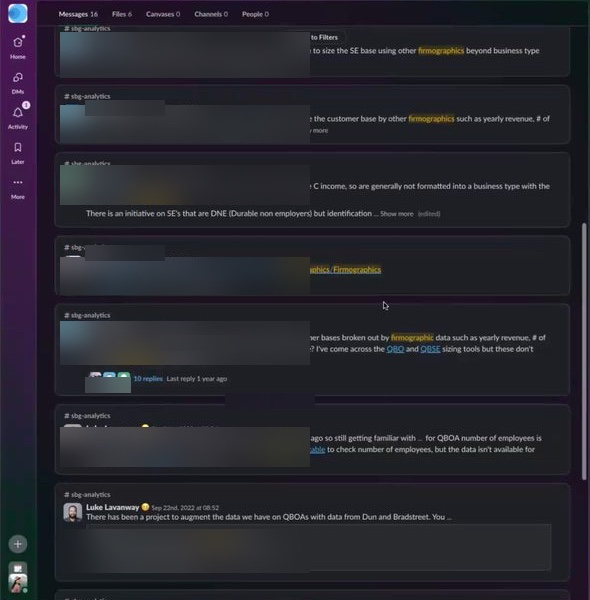
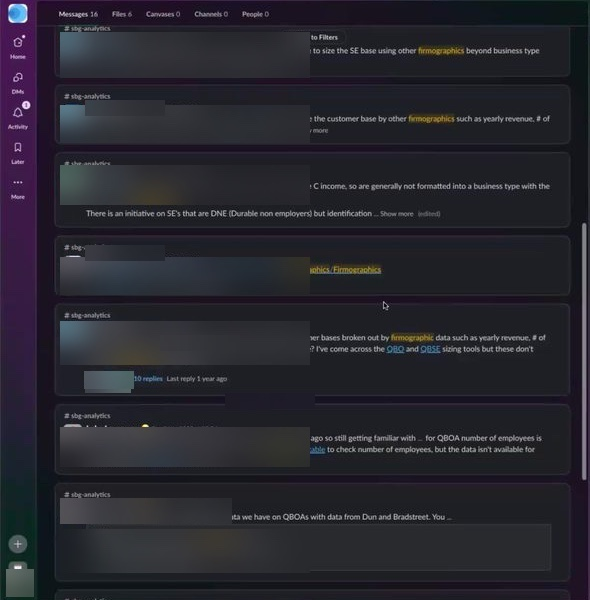
Search 2.0: re-cut into six sections (problem, research, research to roadmap, specification as four numbered positions, impact and trade-offs, what it set up); a subhead block for positions inside a section; section blocks render in source order with the lead visual after the opening paragraphs; the

Changed region(s): [[0.0915, 0.81, 0.3966, 0.9], [0.0, 0.93, 0.061, 1.0], [0.122, 0.6, 0.2441, 0.66]]

diff --git a/lib/pages/search-2.ts b/lib/pages/search-2.ts
@@ -1,10 +1,10 @@
 import type { ShortPage } from './types'
 import { TINTS } from '@/lib/tint'
 
-// Case study: Search 2.0. Eight sections that carry one argument: search
-// answered the navigation question, and the real question was comprehension.
-// Each section is a heading, one lead paragraph, one visual and at most one
-// supporting block. Sources: the June 2024 design document and its review
+// Case study: Search 2.0. Six sections: the problem, the research, research
+// to roadmap, the specification (four numbered positions), impact and
+// trade-offs, and what it set up. One argument runs through them: search
+// answered the navigation question, and the real question was comprehension. Sources: the June 2024 design document and its review
 // notes, the April 2024 session boards, the Nov 2024 and Mar 2025 launch
 // posts, the FY24 year-end review, the Data Genius Bar summary (726
 // questions), the help-channel analysis (666 questions), Amplitude, and the
@@ -71,8 +71,7 @@ export const SEARCH_2: ShortPage = {
     },
     {
       id: 'haystack',
-      after: 'comprehension',
-      lead: true,
+      after: 'research',
       src: '/work/search-2/journey-haystack-2024.jpg',
       width: 2048,
       height: 1466,
@@ -81,7 +80,7 @@ export const SEARCH_2: ShortPage = {
     },
     {
       id: 'tabs',
-      after: 'reversal',
+      after: 'spec',
       lead: true,
       src: '/work/search-2/decision-tabs.png',
       width: 820,
@@ -91,16 +90,16 @@ export const SEARCH_2: ShortPage = {
     },
     {
       id: 'search-1',
-      after: 'reversal',
+      after: 'problem',
       src: '/work/search-2/search-1-results-2024.jpg',
       width: 2048,
       height: 1147,
       alt: 'The 2024 search results for “company status”: 1,838,670 results under a Data Catalog tab, nine columns named company_status from different schemas with the same description before the first table, and eight filter pills across the top.',
-      caption: 'Before: “company status” in the old search, 2024. 1,838,670 results, nine identically named columns before a single table, and eight filter pills nobody used.',
+      caption: '“Company status” in the old search, 2024: 1,838,670 results, nine identically named columns before a single table, and eight filter pills nobody used. The search returned everything and proved nothing.',
     },
     {
       id: 'click-depth',
-      after: 'shipped',
+      after: 'impact',
       lead: true,
       src: '/work/search-2/click-depth.jpg',
       width: 2087,
@@ -114,7 +113,7 @@ export const SEARCH_2: ShortPage = {
       id: 'problem',
       eyebrow: '1 · The problem',
       short: 'Problem',
-      heading: 'The search box was fine. The problem was trust.',
+      heading: 'The search returned everything and proved nothing',
       blocks: [
         {
           type: 'p',
@@ -135,7 +134,7 @@ export const SEARCH_2: ShortPage = {
       id: 'research',
       eyebrow: '2 · The research, spring 2024',
       short: 'Research',
-      heading: 'Twenty sessions, with engineers in the room',
+      heading: 'Twenty sessions across nine business units',
       blocks: [
         {
           type: 'p',
@@ -150,14 +149,7 @@ export const SEARCH_2: ShortPage = {
             { title: '3 · Four times in five, people are re-finding, not discovering', text: 'About 80% of sessions were people going back to tables they had vetted weeks earlier, re-running the search as a bookmark bar. One ML engineer building an onboarding model spent three months finding 7 of 11 attributes, then had to find each one’s real-time equivalent again.' },
           ],
         },
-      ],
-    },
-    {
-      id: 'comprehension',
-      eyebrow: '3 · The core finding',
-      short: 'Comprehension',
-      heading: 'People were not looking for tables. They were trying to understand them.',
-      blocks: [
+        { type: 'subhead', text: 'What the three added up to' },
         {
           type: 'p',
           text:
@@ -173,7 +165,7 @@ export const SEARCH_2: ShortPage = {
     },
     {
       id: 'roadmap',
-      eyebrow: '4 · Research to roadmap',
+      eyebrow: '3 · Research to roadmap',
       short: 'Roadmap',
       heading: 'Eight findings became eight launches',
       blocks: [
@@ -200,15 +192,21 @@ export const SEARCH_2: ShortPage = {
       ],
     },
     {
-      id: 'reversal',
-      eyebrow: '5 · The specification, June 2024',
-      short: 'Reversal',
-      heading: 'I replaced the structure I had argued for in 2022',
+      id: 'spec',
+      eyebrow: '4 · The specification, June 2024',
+      short: 'Specification',
+      heading: 'Four positions I took in the design document',
       blocks: [
         {
           type: 'p',
           text:
-            'In 2022 I designed the Data Map to organise the catalog around business concepts, Customer or Invoice, with every physical copy nested underneath. By 2024 search had split into two modes, Catalog and Data Map, each mixing every kind of physical asset in one list. My own research now said that business concepts help new people orient, and that working engineers and analysts search by the physical object they need to query. So the June 2024 specification replaced the two modes with one tab per object type, grouped by where the data physically lives: tables, the Data Map, real-time streams, CDC attributes, feature sets, dashboards. The map I had fought for became one tab among them, and stayed the way to understand a data product. Reviewers pushed the split further than my first draft: tables, columns and schemas each got their own section.',
+            'In June 2024 I wrote the design document that search engineering built from, and three senior engineers reviewed it before anything was built. Four positions in it decided the shape of what shipped. Each one cost something, and the cost is written next to it.',
+        },
+        { type: 'subhead', number: '01', text: 'Give up the structure I had argued for in 2022' },
+        {
+          type: 'p',
+          text:
+            'In 2022 I designed the Data Map to organise the catalog around business concepts, Customer or Invoice, with every physical copy nested underneath. By 2024 search had split into two modes, Catalog and Data Map, each mixing every kind of physical asset in one list. My own research now said that business concepts help new people orient, and that working engineers and analysts search by the physical object they need to query. So the specification replaced the two modes with one tab per object type, grouped by where the data physically lives: tables, the Data Map, real-time streams, CDC attributes, feature sets, dashboards. The map I had fought for became one tab among them, and stayed the way to understand a data product. Reviewers pushed the split further than my first draft: tables, columns and schemas each got their own section.',
         },
         {
           type: 'cards',
@@ -218,14 +216,7 @@ export const SEARCH_2: ShortPage = {
             { title: 'A data product', text: 'The business meaning, its owner, and every physical copy listed beneath it. The 2022 idea, kept where it helps.' },
           ],
         },
-      ],
-    },
-    {
-      id: 'decisions',
-      eyebrow: '6 · Four more calls, and what each cost',
-      short: 'Decisions',
-      heading: 'Filters, facets, five lines, and what was left open',
-      blocks: [
+        { type: 'subhead', number: '02', text: 'Separate filters from facets, and keep facets to the four behaviours Vertex AI supported' },
         {
           type: 'p',
           text:
@@ -241,14 +232,7 @@ export const SEARCH_2: ShortPage = {
           ],
           caption: 'The four facet behaviours, from the prototype attached to the June 2024 specification.',
         },
-      ],
-    },
-    {
-      id: 'calls',
-      eyebrow: 'The other three',
-      short: 'Three more',
-      heading: 'Five lines per card, AI descriptions demoted, tags left open',
-      blocks: [
+        { type: 'subhead', number: '03', text: 'Cap every result card at five lines, split between operational and social proof' },
         {
           type: 'tension',
           items: [
@@ -262,6 +246,12 @@ export const SEARCH_2: ShortPage = {
               tension: 'In the design review, two of the first three reviewers said AI-written descriptions felt untrustworthy mixed in with human ones.',
               decision: 'Steward-written descriptions show by default. An AI description appears only as a labelled fallback when no human one exists, and the owner can edit it inline.',
             },
+          ],
+        },
+        { type: 'subhead', number: '04', text: 'Leave tags versus collections open, then argue for Collections' },
+        {
+          type: 'tension',
+          items: [
             {
               image: { src: '/work/search-2/decision-datamap.png', width: 1440, height: 1050, alt: 'The Data Map tab design: data products with their freshness, hosting location and type filters down the left.' },
               tension: 'Stakeholders asked for user-applied tags so analysts could label tables for their teams. A principal engineer pointed out in review that freeform tags rot into inconsistent noise.',
@@ -272,16 +262,17 @@ export const SEARCH_2: ShortPage = {
       ],
     },
     {
-      id: 'shipped',
-      eyebrow: '7 · What shipped, what it did not solve, and what was mine',
-      short: 'Shipped',
-      heading: 'Precision rose, latency fell, and two gaps showed',
+      id: 'impact',
+      eyebrow: '5 · Impact and trade-offs',
+      short: 'Impact',
+      heading: 'Precision rose, latency collapsed, and the framework carried four launches',
       blocks: [
         {
           type: 'p',
           text:
-            'Table search launched on 14 November 2024 and Data Map search on 26 March 2025; the old search was switched off in September 2025, by which point Search 2.0 was primary for about 70% of users and session conversion had gone from 41% to 61% over the year. Object-type separation ended the ambiguous mixed lists, facets cut the time to a trusted result, and certification became visible without a click. Two things it did not solve. When the ranking was tuned for natural-language queries, people who pasted an exact table name saw semantic neighbours outrank the exact string, and the Data Map default tab added a click; top-five click-through dipped from 96% to 94% in July 2025. One person wrote in the April poll: “If I search for an exact table name it defaults to Data Map, resulting in an extra click to the Tables tab compared to before.” Amplitude caught it, a fast path for exact strings and a routing change fixed it, and the rate recovered to 95% by January 2026. And column-name search still returned table-level relevance, so the comprehension gap was narrower, not closed. The cost that is mine: instrumentation was not in the first scope, so precision was measured after launch rather than designed for before it.',
+            'Engineers and the search-model team built the ranking models and the indexing; the specification defined what was searchable, how objects were separated, how facets behaved and the five lines of signal on every card. Table search launched on 14 November 2024 and Data Map search on 26 March 2025. The old search was switched off in September 2025, by which point Search 2.0 was primary for about 70% of users and session conversion had gone from 41% to 61% over the year. Object-type separation ended the ambiguous mixed lists, facets cut the time to a trusted result, and certification became visible without a click.',
         },
+        { type: 'subhead', text: 'The scorecard' },
         {
           type: 'table',
           head: ['Launch and scope', 'Metric', 'Before → after', 'Attribution and source'],
@@ -293,18 +284,24 @@ export const SEARCH_2: ShortPage = {
           ],
           caption: 'The 20-day figure is Intuit’s public number for the whole path, including access and exploration; 14.2 hours is the catalog’s own measure of the search step.',
         },
+        { type: 'subhead', text: 'What broke first, and how we fixed it' },
+        {
+          type: 'p',
+          text:
+            'When the ranking was tuned for natural-language queries, people who pasted an exact table name saw semantic neighbours outrank the exact string, and the Data Map default tab added a click; top-five click-through dipped from 96% to 94% in July 2025. One person wrote in the April poll: “If I search for an exact table name it defaults to Data Map, resulting in an extra click to the Tables tab compared to before.” Amplitude caught it, a fast path for exact strings and a routing change fixed it, and the rate recovered to 95% by January 2026. Two things stayed open. Column-name search still returned table-level relevance, so the comprehension gap was narrower, not closed. And the cost that is mine: instrumentation was not in the first scope, so precision was measured after launch rather than designed for before it.',
+        },
       ],
     },
     {
       id: 'after',
-      eyebrow: '8 · What it set up, 2025 to 2026',
-      short: 'After',
-      heading: 'Research compounds: the object model became the agent’s tool schema',
+      eyebrow: '6 · What it set up, 2025 to 2026',
+      short: 'What it set up',
+      heading: 'Search solved locating data. Comprehension and the coding agent came next.',
       blocks: [
         {
           type: 'p',
           text:
-            'Fixing search changed the questions people asked. In the 726 Data Genius Bar questions analysed after the rebuild, 16% were still about locating a table; 68.2% were about comprehension, what a column meant, how two tables joined, which filters to apply; and 74.1% could be answered by a single-table lookup if column-level context reached the person where they worked. That is the finding from section 3, measured a year later. The June 2024 specification had already listed Slack and queries as future search objects, and both shipped within the year as Slack insights and query insights. Collections followed in August 2025. Together they set up the next step: the catalog inside Cursor and Claude, where the Search 2.0 object model, tables, data products, topics and attributes each with their own evidence, is the schema the agent’s tools answer with. That story is on the next page.',
+            'Fixing search changed the questions people asked. In the 726 Data Genius Bar questions analysed after the rebuild, 16% were still about locating a table; 68.2% were about comprehension, what a column meant, how two tables joined, which filters to apply; and 74.1% could be answered by a single-table lookup if column-level context reached the person where they worked. That is the research finding, measured a year later. The June 2024 specification had already listed Slack and queries as future search objects, and both shipped within the year as Slack insights and query insights. Collections followed in August 2025. Together they set up the next step: the catalog inside Cursor and Claude, where the Search 2.0 object model, tables, data products, topics and attributes each with their own evidence, is the schema the agent’s tools answer with. That story is on the next page.',
           links: [{ text: 'the next page', href: '/work/agentic-discovery' }],
         },
         {

diff --git a/components/short-page.tsx b/components/short-page.tsx
@@ -52,6 +52,7 @@ function readMinutes(page: ShortPage) {
       if (b.type === 'steps') return b.items.map((i) => i.title + ' ' + (i.quote ?? '')).join(' ')
       if (b.type === 'clips') return b.items.map((i) => i.title + ' ' + i.text).join(' ')
       if (b.type === 'table') return b.rows.flat().join(' ')
+      if (b.type === 'subhead') return b.text
       return ''
     })
     .join(' ')
@@ -80,6 +81,14 @@ function Linked({ text, links }: { text: string; links?: InlineLink[] }) {
 }
 
 function BlockView({ block }: { block: Block }) {
+  if (block.type === 'subhead') {
+    return (
+      <h3 className="mt-6 flex items-baseline gap-3 text-balance font-heading text-xl font-semibold tracking-tight md:text-2xl">
+        {block.number && <span className="label-micro shrink-0 text-accent-brand">{block.number}</span>}
+        <span>{block.text}</span>
+      </h3>
+    )
+  }
   if (block.type === 'video') {
     return (
       <figure className={cn(CARD, 'p-2')}>
@@ -309,21 +318,7 @@ export function ShortPageLayout({ page }: { page: ShortPage }) {
                     <HeadingDot />
                   </h2>
                   <div className="mt-6 grid gap-6">
-                    {section.blocks
-                      .filter((b) => b.type === 'p')
-                      .map((block, i) => (
-                        <div key={`p${i}`} className="max-w-[46rem]">
-                          <BlockView block={block} />
-                        </div>
-                      ))}
-                    <Visuals visuals={visualsLead(page, section.id)} />
-                    {section.blocks
-                      .filter((b) => b.type !== 'p')
-                      .map((block, i) => (
-                        <div key={`b${i}`} className={cn(!WIDE_BLOCKS.has(block.type) && 'max-w-[46rem]')}>
-                          <BlockView block={block} />
-                        </div>
-                      ))}
+                    <SectionBlocks blocks={section.blocks} lead={visualsLead(page, section.id)} />
                     <Visuals visuals={visualsAfter(page, section.id)} />
                   </div>
                 </div>
@@ -368,6 +363,24 @@ function sameAspect(a: PageVisual, b: PageVisual) {
   const ra = a.width / a.height
   const rb = b.width / b.height
   return Math.abs(ra - rb) / Math.max(ra, rb) < 0.1
+}
+
+/** Blocks in source order; the lead visual sits after the opening run of paragraphs. */
+function SectionBlocks({ blocks, lead }: { blocks: Block[]; lead: PageVisual[] }) {
+  const firstWide = blocks.findIndex((b) => b.type !== 'p')
+  const cut = firstWide < 0 ? blocks.length : firstWide
+  const render = (block: Block, i: number) => (
+    <div key={i} className={cn(!WIDE_BLOCKS.has(block.type) && 'max-w-[46rem]')}>
+      <BlockView block={block} />
+    </div>
+  )
+  return (
+    <>
+      {blocks.slice(0, cut).map(render)}
+      <Visuals visuals={lead} />
+      {blocks.slice(cut).map((b, i) => render(b, i + cut))}
+    </>
+  )
 }
 
 function Visuals({ visuals, className }: { visuals: PageVisual[]; className?: string }) {

diff --git a/lib/pages/types.ts b/lib/pages/types.ts
@@ -44,6 +44,8 @@ export type Block =
    *  someone said (credited by role) and, where known, how long it took. */
   | { type: 'steps'; caption?: string; items: { title: string; tools: string; quote?: string; who?: string; time?: string }[] }
   /** Three or four small muted looping clips in a row, each with a title and one line: a behaviour shown rather than described. */
+  /** A numbered sub-heading inside a section, for a section that makes several positions in order. */
+  | { type: 'subhead'; number?: string; text: string }
   | { type: 'clips'; caption?: string; items: { src: string; width: number; height: number; title: string; text: string; alt: string }[] }
 
 export interface PageSection {
